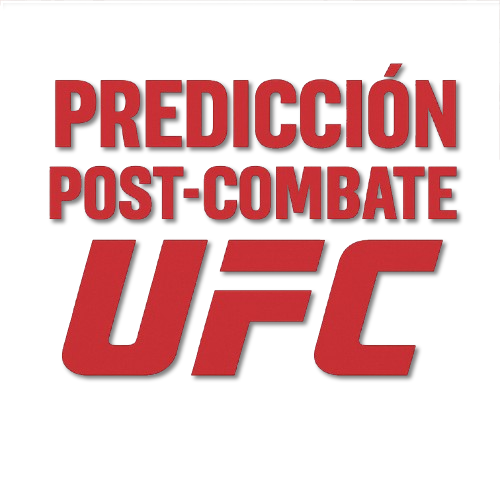
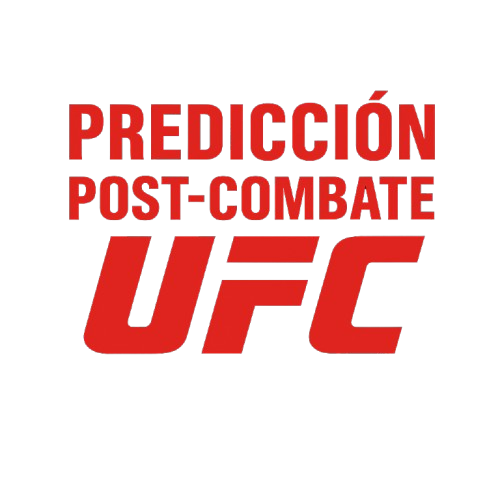
Cambios en titulos

diff --git a/static/css/style.css b/static/css/style.css
@@ -136,6 +136,14 @@ a:hover {
     text-shadow: 2px 2px 4px rgba(0,0,0,0.5);
 }
 
+.title-img1 {
+    width: auto; /* Ajusta automáticamente el ancho */
+    height: 80%; /* Ocupa todo el alto del encabezado */
+    max-height: 3em; /* Asegúrate de que no exceda el tamaño del encabezado */
+    display: inline-block; /* Asegura que se comporte como un elemento en línea */
+    margin: 0 auto; /* Centra la imagen */
+}
+
 .title-img {
     width: 300px;
     height: 250px;

diff --git a/templates/inicio.html b/templates/inicio.html
@@ -7,8 +7,9 @@
 <div class="hero">
     <div class="background-overlay"></div>
     <header class="header">
-        <h1 class="title">UFC Fight Predictor</h1>
-        <p class="subtitle">Inteligencia Artificial para Predicción de Combates</p>
+        <h1 class="title">
+            <img src="{{ request.url_for('static', path='img/imageheader.png') }}" alt="UFC Fight Predictor" class="title-img1">
+        </h1>
     </header>
 
     <main class="options">
